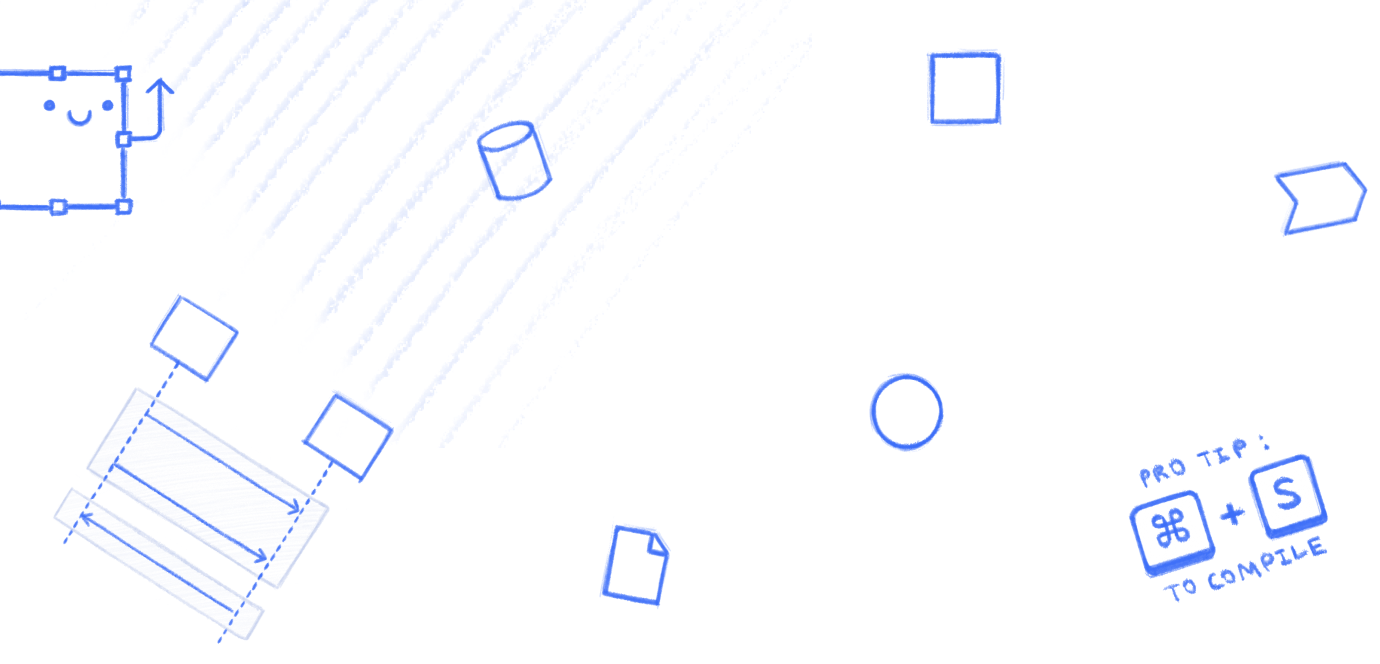
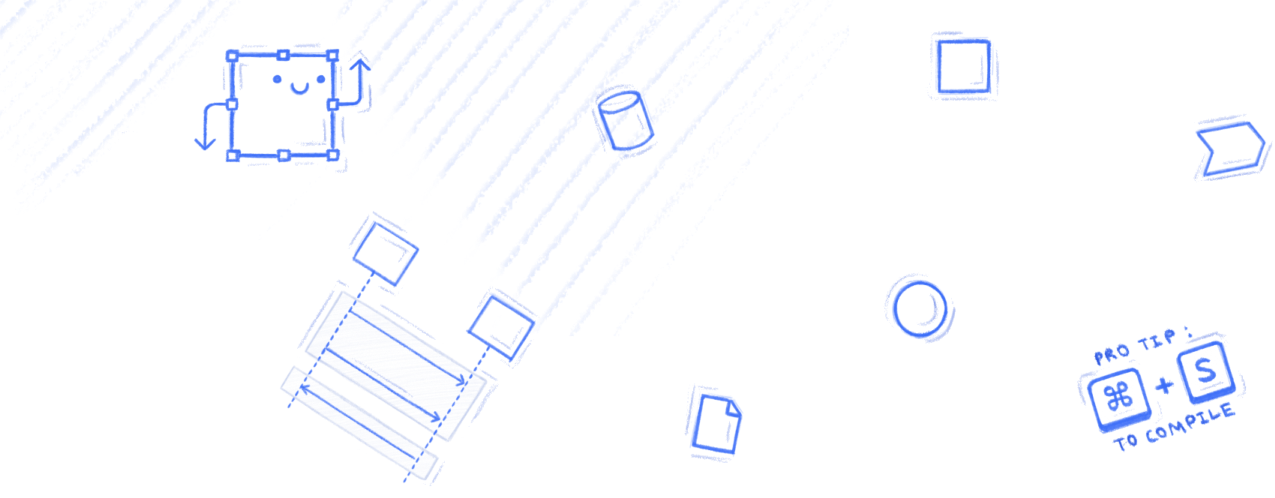
update hero graphics

diff --git a/src/css/responsive.css b/src/css/responsive.css
@@ -84,10 +84,10 @@
 
 @media only screen and (max-width: 850px) and (min-width: 768px) {
   #hero-left-drawing {
-    left: -294px;
+    left: -364px;
   }
   #hero-right-drawing {
-    right: -240px;
+    right: -340px;
   }
 
   #container {
@@ -97,41 +97,50 @@
 
 @media only screen and (max-width: 1010px) and (min-width: 850px) {
   #hero-left-drawing {
-    left: -230px;
+    left: -330px;
   }
   #hero-right-drawing {
-    right: -200px;
+    right: -300px;
   }
 }
 
 @media only screen and (max-width: 1100px) and (min-width: 1010px) {
   #hero-left-drawing {
-    left: -180px;
+    left: -260px;
   }
   #hero-right-drawing {
-    right: -115px;
+    right: -215px;
   }
 }
 
 @media only screen and (max-width: 1200px) and (min-width: 1100px) {
   #hero-left-drawing {
-    left: -110px;
+    left: -210px;
   }
   #hero-right-drawing {
-    right: -60px;
+    right: -180px;
   }
 }
 
 @media only screen and (max-width: 1270px) and (min-width: 1200px) {
   #hero-left-drawing {
-    left: -80px;
+    left: -160px;
   }
   #hero-right-drawing {
-    right: -20px;
+    right: -120px;
   }
 }
 
-@media only screen and (min-width: 1270px) {
+@media only screen and (max-width: 1500px) and (min-width: 1270px) {
+  #hero-left-drawing {
+    left: -100px;
+  }
+  #hero-right-drawing {
+    right: -100px;
+  }
+}
+
+@media only screen and (min-width: 1500px) {
   #hero-left-drawing {
     left: 0px;
   }

diff --git a/src/css/hero.css b/src/css/hero.css
@@ -39,11 +39,11 @@
 }
 
 #hero-left-drawing-img {
-  width: 400px;
+  width: 500px;
 }
 
 #hero-right-drawing-img {
-  width: 400px;
+  width: 500px;
 }
 
 #hero-sketch {
